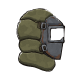
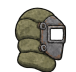
feat(crew): the three helmets painted raw by GPT; their glass stays drawn

Changed region(s): [[0.1842, 0.0833, 0.8684, 1.0], [0.6316, 0.8056, 0.6579, 0.8333]]

diff --git a/tools/anime-art/subjects/helmets.js b/tools/anime-art/subjects/helmets.js
@@ -2,7 +2,8 @@
 // bolted frame, a valve at the back, a rubber neck seal; and the armoured bell, gunmetal and brass, its wide glass behind three
 // bars, two air tubes at the back, bolted to a collar on the shoulders. Traced from AI-made references (refs/helmet.png,
 // refs/heavyHelmet.png) for their form only, drawn by the engine (traced.js), as the quilted helmet. On the hero in the helmets'
-// box and joint (hero.js's cut), facing +x, the glass the visor; each card the trace's own fit.
+// box and joint (hero.js's cut), facing +x: here their glass, the visor, and each card the trace's own fit; their shells are
+// painted raw (suits.js).
 (function () {
 'use strict';
 /** Where each sits on the head (hero.js's 13 × 12 box), in its pixels: its front edge, its top and how tall it stands, the seal on the neck, the bell's collar on the shoulders. */
@@ -13,79 +14,19 @@ const HEAD = {
 /** The basic helmet's picture for the helmet lamp's card (WornPicture): the worn one shrunk by this into its 13 × 12, its brow where the lamp's On is. */
 const CARD = { units: 1.15, shift: [1.65, .3] };
 
-/**
- * The basic helmet's ball turns on its neck ring (helmets-fit-the-suit, BodyFit.cs): the circle its outline fits, about which it turns,
- * in the head's pixels, and how far out its picture is kept under the ring, the outline's ink with it.
- */
-const BALL = { x: 6.7, y: 6, r: 6.45 };
-
 /** A helmet's drawing on the head, and its glass; its ops, placed, and the pen's scale. */
 function worn(name) {
   const { s, at } = Traced.onHead(name, HEAD[name]), ops = Traced.placed(name, s, at), k = TRACED[name].fit.units * s;
   return { ops, k, draw: Traced.drawer(name, ops, k), glass: ops.filter((o) => o.mat === 'glass').map((o) => o.d).join('') };
 }
 
-/** A path's bounds, [x0, y0, x1, y1]: the tracer writes only absolute M, C and Z, so its numbers come in pairs. */
-function bounds(d) {
-  const n = d.match(/-?\d*\.?\d+/g).map(Number), xs = n.filter((_, i) => i % 2 === 0), ys = n.filter((_, i) => i % 2 === 1);
-  return [Math.min(...xs), Math.min(...ys), Math.max(...xs), Math.max(...ys)];
-}
-
-/**
- * The basic helmet in two parts (helmets-fit-the-suit): the ball, its ring's rubber and the ink inside it left out, kept under the
- * ring's top only within its circle, so it turns in place on the ring; and the ring alone, the whole drawing within its outline.
- */
-function ringed(basic) {
-  const ring = basic.ops.find((o) => o.mat === 'rubber'), [rx0, ry0, rx1, ry1] = bounds(ring.d);
-  const inRing = (o) => o === ring || o.op === 'line' && ((b) => b[0] >= rx0 && b[2] <= rx1 && b[1] >= ry0 && b[3] <= ry1)(bounds(o.d));
-  const [ball] = HeroKit.cut(Traced.drawer('helmet', basic.ops.filter((o) => !inRing(o)), basic.k), basic.glass, []);
-  const { x, y, r } = BALL;
-  HeroKit.keep(ball, `M-4 -4L17 -4L17 ${ry0}L-4 ${ry0}Z M${x - r} ${y}A${r} ${r} 0 1 1 ${x + r} ${y}A${r} ${r} 0 1 1 ${x - r} ${y}Z`);
-  return { ball, collar: HeroKit.keep(HeroKit.part({ w: 13, h: 12, draw: basic.draw }), ring.d, Anime.LINE.outer) };
-}
-
-/** How far the bell's rubber gasket shows below its brass neck ring, in the head's pixels. */
-const GASKET = 0.9;
-
-/** A path moved down by dy: the tracer writes only absolute M, C and Z, so its numbers come in pairs. */
-const lowered = (d, dy) => {
-  let k = 0;
-  return d.replace(/-?\d*\.?\d+/g, (v) => String(k++ % 2 ? +(+v + dy).toFixed(3) : v));
-};
-
-/** Above this row of the head the bell is its dome, below it its shoulder piece, but for the brass neck ring and the gasket between. */
-const DOME = 10.9;
-
-/**
- * The bell in three parts (helmets-fit-the-suit), so its dome nods on a rubber gasket as the basic helmet's ball on its seal: the
- * dome with its brass neck ring and hoses; the shoulder piece, the ring's and the gasket's place left open in it; and the gasket,
- * the ring's own shape and that shape lowered by GASKET, in the hoses' rubber, under the ring and showing below it.
- */
-function belled(bell) {
-  const brass = bell.ops.filter((o) => o.mat === 'brass'), width = (o) => ((b) => b[2] - b[0])(bounds(o.d));
-  const ring = brass.reduce((a, b) => (width(b) > width(a) ? b : a)), low = lowered(ring.d, GASKET), rim = Anime.LINE.outer;
-  const top = `M-4 -4L17 -4L17 ${DOME}L-4 ${DOME}Z`, metal = brass.filter((o) => o.op !== 'line').map((o) => o.d);
-  const [shell, visor] = HeroKit.cut(bell.draw, bell.glass, []);
-  // The ink drawn on the ring, as its clasp's edge, goes with it.
-  const [rx0, ry0, rx1, ry1] = bounds(ring.d), inked = bell.ops.filter((o) => o.op === 'line' && ((b) => b[0] >= rx0 && b[2] <= rx1 && b[1] >= ry0 && b[3] <= ry1)(bounds(o.d))).map((o) => o.d);
-  HeroKit.within(shell, { keep: [top, ring.d], back: [...metal, ...inked] }, rim);
-  const collar = HeroKit.within(HeroKit.part({ w: 13, h: 12, draw: bell.draw }), { keep: ['M-4 -4L17 -4L17 17L-4 17Z'], drop: [top, ring.d, low, ...metal, ...inked] }, rim);
-  const seal = { ...ring, mat: 'tube', lite: [], d: ring.d + low };
-  return { shell, visor, collar, seal: HeroKit.part({ w: 13, h: 12, draw: Traced.drawer('heavyHelmet', [seal], bell.k) }) };
-}
-
 Subjects.helmets = function () {
-  const basic = worn('helmet'), [, visor] = HeroKit.cut(basic.draw, basic.glass, []), { ball, collar } = ringed(basic);
-  out('hero_helmet_shell', ball);
-  out('hero_helmet_collar', collar);
-  out('hero_visor', visor);
+  // Their shells, the basic one's collar and the bell's collar and seal are painted raw (suits.js); the glass is drawn here.
+  const basic = worn('helmet'), bell = worn('heavyHelmet');
+  out('hero_visor', HeroKit.cut(basic.draw, basic.glass, [])[1]);
   out('hero_helmet', Anime.bake({ w: 13, h: 12, light: [0, -1], ...CARD, draw: basic.draw }));
   out('items/helmet', Traced.icon('helmet'));
-  const bell = belled(worn('heavyHelmet'));
-  out('hero_heavyHelmet_shell', bell.shell);
-  out('hero_heavyHelmet_visor', bell.visor);
-  out('hero_heavyHelmet_collar', bell.collar);
-  out('hero_heavyHelmet_seal', bell.seal);
+  out('hero_heavyHelmet_visor', HeroKit.cut(bell.draw, bell.glass, [])[1]);
   out('items/heavyHelmet', Traced.icon('heavyHelmet'));
 };
 

diff --git a/tools/anime-art/subjects/quilted.js b/tools/anime-art/subjects/quilted.js
@@ -9,8 +9,8 @@ const HEAD = { right: 13, top: -0.8, height: 15.6 };
 Subjects.quilted = function () {
   const { s, at } = Traced.onHead('quilted', HEAD), ops = Traced.placed('quilted', s, at), u = TRACED.quilted.fit.units;
   const glass = ops.filter((o) => o.mat === 'glass').map((o) => o.d).join('');
-  const [shell, visor] = HeroKit.cut(Traced.drawer('quilted', ops, u * s), glass, []);
-  out('hero_quiltedHelmet_shell', shell);
+  // Its shell is painted raw (suits.js); its glass is drawn here.
+  const [, visor] = HeroKit.cut(Traced.drawer('quilted', ops, u * s), glass, []);
   out('hero_quiltedHelmet_visor', visor);
   out('items/quiltedHelmet', Traced.icon('quilted'));
 };

diff --git a/tools/anime-art/subjects/suits.js b/tools/anime-art/subjects/suits.js
@@ -1,5 +1,5 @@
-// The suits painted raw (skins): GPT's paint on a sheet of the rig's parts, in ink and watercolour, shrunk by area to the hd size
-// and laid side by side in traced/suit<Name>.png. Each part goes out as it is, its margin included: `out` + the part's name.
+// The suits and helmets painted raw (skins): GPT's paint on a sheet of the rig's parts, in ink and watercolour, shrunk by area
+// to the hd size and laid side by side in traced/suit<Name>.png. Each part goes out as it is, its margin included: `out` + its name.
 Subjects.suits = function () {
   for (const [name, t] of Object.entries(TRACED)) {
     if (!t.out || !t.raw) continue;
